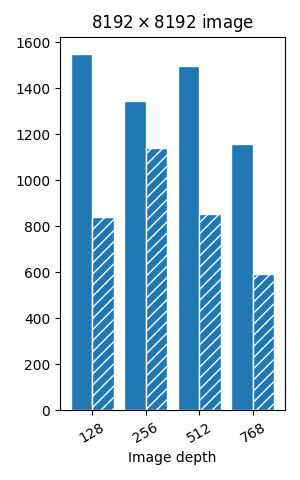
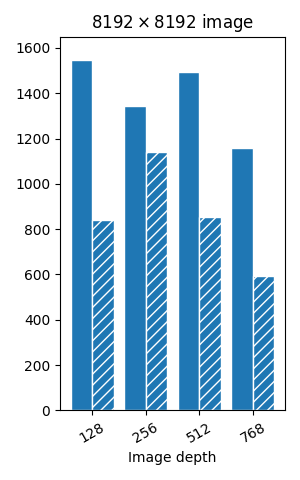
hardcoded Y axis limit into CARTA load graphs

diff --git a/plot_carta.py b/plot_carta.py
@@ -66,6 +66,7 @@ for x in sorted(times.keys()):
         plt.ylabel("Time (ms)")
     
     plt.xlim(xpos[0] - 0.3, xpos[-1] + 0.3)
+    plt.ylim(top=1650) # HACK
     
     plt.title("$%d \\times %d$ image" % (x, x))
     plt.xlabel("Image depth")
